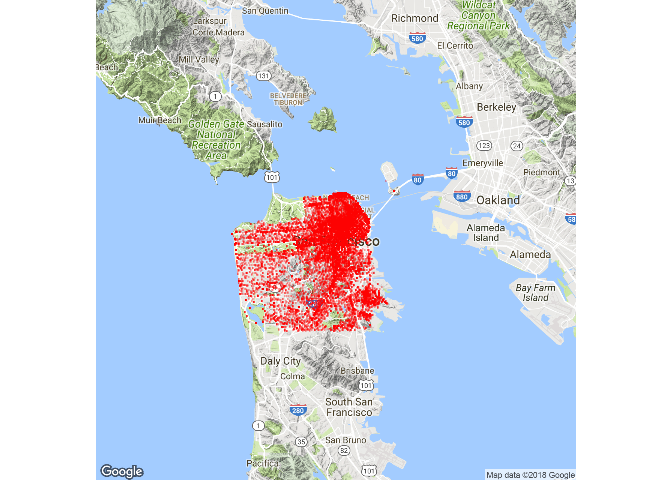
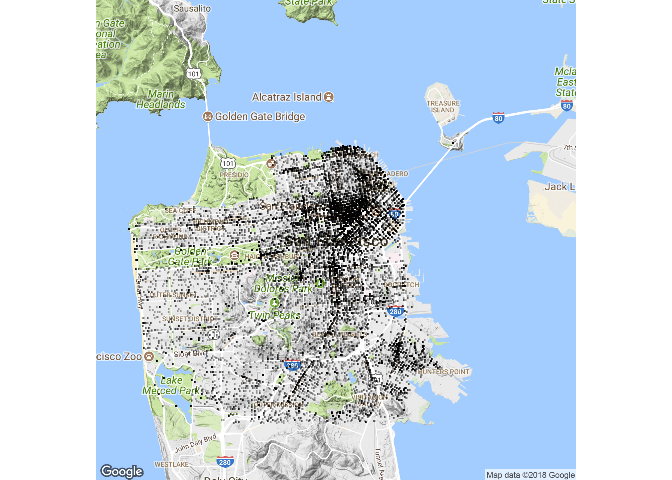
added plots and intro

diff --git a/Crime-Analytics-Data-Viz.md b/Crime-Analytics-Data-Viz.md
@@ -6,99 +6,64 @@ April 16, 2018
 Crime Analytics
 ---------------
 
-Intro paragraph which says what my primary finding is and describes two or three supporting visualisations.
+Is day of the week when a crime occurs associated with city (San Francisco/ Seattle)? Is hour of the day when a crime occurs associated with city (San Francisco/ Seattle)?
 
 ``` r
 SeattleData <- as_tibble(read.csv("seattle_incidents_summer_2014.csv"))
 SanFranciscoData <- as_tibble(read.csv("sanfrancisco_incidents_summer_2014.csv"))
 
-SeattleData
-```
-
-    ## # A tibble: 32,779 x 19
-    ##    RMS.CDW.ID General.Offense.~ Offense.Code Offense.Code.Ex~ Offense.Type
-    ##         <int>             <dbl> <fct>                   <int> <fct>       
-    ##  1     483839       2015218538. 2202                        0 BURGLARY-FO~
-    ##  2     481252       2015213067. 2610                        0 FRAUD-IDENT~
-    ##  3     481375       2015210301. 2316                        0 THEFT-MAIL  
-    ##  4     481690       2015209327. 2599                        0 COUNTERFEIT 
-    ##  5     478198       2015207880. 2399                        3 THEFT-OTH   
-    ##  6     480485       2015904103. 2308                        0 THEFT-BUILD~
-    ##  7     470170       2015185464. 2308                        0 THEFT-BUILD~
-    ##  8     465137       2015174988. 2605                        0 FRAUD-CREDI~
-    ##  9     461710       2015168191. 2610                        0 FRAUD-IDENT~
-    ## 10     456091       2015157266. 2606                        1 FRAUD-CHECK 
-    ## # ... with 32,769 more rows, and 14 more variables:
-    ## #   Summary.Offense.Code <fct>, Summarized.Offense.Description <fct>,
-    ## #   Date.Reported <fct>, Occurred.Date.or.Date.Range.Start <fct>,
-    ## #   Occurred.Date.Range.End <fct>, Hundred.Block.Location <fct>,
-    ## #   District.Sector <fct>, Zone.Beat <fct>, Census.Tract.2000 <dbl>,
-    ## #   Longitude <dbl>, Latitude <dbl>, Location <fct>, Month <int>,
-    ## #   Year <int>
-
-``` r
-SanFranciscoData
-```
-
-    ## # A tibble: 28,993 x 13
-    ##    IncidntNum Category     Descript       DayOfWeek Date  Time  PdDistrict
-    ##         <int> <fct>        <fct>          <fct>     <fct> <fct> <fct>     
-    ##  1  140734311 ARSON        ARSON OF A VE~ Sunday    08/3~ 23:50 BAYVIEW   
-    ##  2  140736317 NON-CRIMINAL LOST PROPERTY  Sunday    08/3~ 23:45 MISSION   
-    ##  3  146177923 LARCENY/THE~ GRAND THEFT F~ Sunday    08/3~ 23:30 SOUTHERN  
-    ##  4  146177531 LARCENY/THE~ GRAND THEFT F~ Sunday    08/3~ 23:30 RICHMOND  
-    ##  5  140734220 NON-CRIMINAL FOUND PROPERTY Sunday    08/3~ 23:23 RICHMOND  
-    ##  6  140734349 DRUG/NARCOT~ POSSESSION OF~ Sunday    08/3~ 23:13 SOUTHERN  
-    ##  7  140734349 DRUG/NARCOT~ POSSESSION OF~ Sunday    08/3~ 23:13 SOUTHERN  
-    ##  8  140734349 DRIVING UND~ DRIVING WHILE~ Sunday    08/3~ 23:13 SOUTHERN  
-    ##  9  140738147 OTHER OFFEN~ EVADING A POL~ Sunday    08/3~ 23:00 INGLESIDE 
-    ## 10  140734258 TRESPASS     TRESPASSING    Sunday    08/3~ 23:00 CENTRAL   
-    ## # ... with 28,983 more rows, and 6 more variables: Resolution <fct>,
-    ## #   Address <fct>, X <dbl>, Y <dbl>, Location <fct>, PdId <dbl>
-
-``` r
-# data checks
-# table(wday(mdy(SanFranciscoData$Date), label=TRUE), SanFranciscoData$DayOfWeek)
-# table(month(mdy_hms(SeattleData$Occurred.Date.or.Date.Range.Start)),SeattleData$Month)
-
-City <- rep(c("Seattle","San Francisco"),c(dim(SeattleData)[1], dim(SanFranciscoData)[1]))                
+City <- rep(c("Seattle","San Francisco"),c(dim(SeattleData)[1], dim(SanFranciscoData)[1]))      
 Date <- date(mdy_hms(SeattleData$Occurred.Date.or.Date.Range.Start))
 Date <- append(Date, mdy(SanFranciscoData$Date))
-
 Month <- SeattleData$Month
 Month <- append(Month, month(mdy(SanFranciscoData$Date)))
 
-DayOfWeek <- wday(mdy_hms(SeattleData$Occurred.Date.or.Date.Range.Start), label=TRUE, abbr = FALSE)
-DayOfWeek <- append(DayOfWeek, SanFranciscoData$DayOfWeek)
+SanFranciscoData$DayOfWeek = factor(SanFranciscoData$DayOfWeek, levels=c("Sunday","Monday","Tuesday","Wednesday","Thursday","Friday","Saturday"),ordered=TRUE)
+DayOfWeek<-unlist(list(wday(mdy_hms(SeattleData$Occurred.Date.or.Date.Range.Start), label=TRUE, abbr = FALSE), SanFranciscoData$DayOfWeek))
 
 Hour <- hour(mdy_hms(SeattleData$Occurred.Date.or.Date.Range.Start))
 Hour <- append(Hour, as.numeric(substr(SanFranciscoData$Time,start=1, stop=2)))
-
 CrimeTibble <- tibble(City = City, Date = Date, Month = Month, DayOfWeek = DayOfWeek, Hour = Hour)
+CrimeTibble <- unite(CrimeTibble, Date_Hour, Date, Hour, sep = " ", remove = FALSE)
 
-CrimeTibble
+expecteds<-chisq.test(table(CrimeTibble$DayOfWeek, CrimeTibble$City))$expected
+
+plot(table(CrimeTibble$DayOfWeek, CrimeTibble$City)[,1], ylim=c(3900,5000), type="b", ylab="# of crimes committed", xlab="Day")
+points(table(CrimeTibble$DayOfWeek, CrimeTibble$City)[,2],col=3, type="b")
+points(expecteds[,1], lty=2, type="b")
+points(expecteds[,2], lty=2, type="b", col=3)
+legend(2,5000,c("San Francisco - observed", "San Francisco - expected", "Seattle - observed", "Seattle - expected"), col=c(1,1,3,3), lty=c(1,2,1,2))
 ```
 
-    ## # A tibble: 61,772 x 5
-    ##    City    Date       Month DayOfWeek  Hour
-    ##    <chr>   <date>     <dbl>     <int> <dbl>
-    ##  1 Seattle 2014-06-28    6.         7   10.
-    ##  2 Seattle 2014-06-01    6.         1    0.
-    ##  3 Seattle 2014-08-31    8.         1    9.
-    ##  4 Seattle 2014-06-20    6.         6   13.
-    ##  5 Seattle 2014-06-01    6.         1   11.
-    ##  6 Seattle 2014-06-19    6.         5   14.
-    ##  7 Seattle 2014-06-01    6.         1    0.
-    ##  8 Seattle 2014-08-22    8.         6   11.
-    ##  9 Seattle 2014-08-01    8.         6    0.
-    ## 10 Seattle 2014-07-20    7.         1   12.
-    ## # ... with 61,762 more rows
+![](Crime-Analytics-Data-Viz_files/figure-markdown_github/rearrange-1.png)
 
 ``` r
-mapSF <- qmap("san francisco", zoom=11)
+expecteds<-chisq.test(table(CrimeTibble$Hour, CrimeTibble$City))$expected
+
+plot(table(CrimeTibble$Hour, CrimeTibble$City)[,1], ylim=c(200,2100), type="b", main="Midnight to midnight", xlab="Hour", ylab="# of crimes committed in the hour")
+points(table(CrimeTibble$Hour, CrimeTibble$City)[,2],col=3, type="b")
+points(expecteds[,1], lty=2, type="b")
+points(expecteds[,2], lty=2, type="b", col=3)
+legend(10,1000,c("San Francisco - observed", "San Francisco - expected", "Seattle - observed", "Seattle - expected"), col=c(1,1,3,3), lty=c(1,2,1,2))
 ```
 
-    ## Map from URL : http://maps.googleapis.com/maps/api/staticmap?center=san+francisco&zoom=11&size=640x640&scale=2&maptype=terrain&language=en-EN&sensor=false
+![](Crime-Analytics-Data-Viz_files/figure-markdown_github/rearrange-2.png)
+
+``` r
+plot(table(CrimeTibble$Hour, CrimeTibble$City)[c(5:24,1:4),1], ylim=c(200,2100), type="b", main="4am to 4am", xlab="Hour", ylab="# of crimes committed in the hour")
+points(table(CrimeTibble$Hour, CrimeTibble$City)[c(5:24,1:4),2],col=3, type="b")
+points(expecteds[c(5:24,1:4),1], lty=2, type="b")
+points(expecteds[c(5:24,1:4),2], lty=2, type="b", col=3)
+legend(12,1000,c("San Francisco - observed", "San Francisco - expected", "Seattle - observed", "Seattle - expected"), col=c(1,1,3,3), lty=c(1,2,1,2))
+```
+
+![](Crime-Analytics-Data-Viz_files/figure-markdown_github/rearrange-3.png)
+
+``` r
+mapSF <- qmap("san francisco", zoom=12)
+```
+
+    ## Map from URL : http://maps.googleapis.com/maps/api/staticmap?center=san+francisco&zoom=12&size=640x640&scale=2&maptype=terrain&language=en-EN&sensor=false
 
     ## Information from URL : http://maps.googleapis.com/maps/api/geocode/json?address=san%20francisco&sensor=false
 
@@ -106,7 +71,7 @@ mapSF <- qmap("san francisco", zoom=11)
     ## instead
 
 ``` r
-mapSF + geom_point(data = SanFranciscoData, aes(x = SanFranciscoData$X, y = SanFranciscoData$Y), color="red", size=.5, alpha=0.2)
+mapSF + geom_point(data = SanFranciscoData, aes(x = SanFranciscoData$X, y = SanFranciscoData$Y), color="black", size=.2, alpha=0.2)
 ```
 
 ![](Crime-Analytics-Data-Viz_files/figure-markdown_github/SanFranciscoMap-1.png)
@@ -123,93 +88,9 @@ mapS <- qmap("seattle", zoom=11)
     ## instead
 
 ``` r
-mapS + geom_point(data = SeattleData, aes(x=SeattleData$Longitude, y=SeattleData$Latitude), color="red", size=.5, alpha=.2)
+mapS + geom_point(data = SeattleData, aes(x=SeattleData$Longitude, y=SeattleData$Latitude), color="black", size=.2, alpha=.2)
 ```
 
     ## Warning: Removed 2050 rows containing missing values (geom_point).
 
 ![](Crime-Analytics-Data-Viz_files/figure-markdown_github/SeattleMap-1.png)
-
-``` r
-plot(SanFranciscoData$X,SanFranciscoData$Y)
-```
-
-![](Crime-Analytics-Data-Viz_files/figure-markdown_github/other%20stuff-1.png)
-
-``` r
-plot(SeattleData$Longitude[SeattleData$Longitude < 0],SeattleData$Latitude[SeattleData$Latitude > 0])
-```
-
-![](Crime-Analytics-Data-Viz_files/figure-markdown_github/other%20stuff-2.png)
-
-``` r
-table(weekdays(mdy_hms(SeattleData$Occurred.Date.or.Date.Range.Start)))
-```
-
-    ## 
-    ##    Friday    Monday  Saturday    Sunday  Thursday   Tuesday Wednesday 
-    ##      4960      4587      4647      4715      4596      4612      4662
-
-``` r
-table(weekdays(mdy(SanFranciscoData$Date)))
-```
-
-    ## 
-    ##    Friday    Monday  Saturday    Sunday  Thursday   Tuesday Wednesday 
-    ##      4451      4005      4319      4218      3968      3930      4102
-
-``` r
-plot(sort(mdy_hms(SeattleData$Date.Reported)-mdy_hms(SeattleData$Occurred.Date.or.Date.Range.Start)))
-```
-
-![](Crime-Analytics-Data-Viz_files/figure-markdown_github/other%20stuff-3.png)
-
-``` r
-table(hour(mdy_hms(SeattleData$Occurred.Date.or.Date.Range.Start)))
-```
-
-    ## 
-    ##    0    1    2    3    4    5    6    7    8    9   10   11   12   13   14 
-    ## 2073  989  827  589  475  393  550  811 1130 1155 1286 1281 2020 1589 1481 
-    ##   15   16   17   18   19   20   21   22   23 
-    ## 1697 1669 1844 1838 1738 1866 1942 1931 1605
-
-``` r
-#table(hour(mdy_hms(SeattleData$Occurred.Date.or.Date.Range.Start)), weekdays(mdy_hms(SeattleData$Occurred.Date.or.Date.Range.Start)))
-
-table(hour(mdy_hms(SeattleData$Occurred.Date.or.Date.Range.Start)), wday(mdy_hms(SeattleData$Occurred.Date.or.Date.Range.Start),label=TRUE, abbr = FALSE))
-```
-
-    ##     
-    ##      Sunday Monday Tuesday Wednesday Thursday Friday Saturday
-    ##   0     368    259     304       258      259    323      302
-    ##   1     175    130      98       114      124    121      227
-    ##   2     205    107     101        86       87     91      150
-    ##   3     119     55      67        84       60     59      145
-    ##   4      82     48      80        62       64     53       86
-    ##   5      52     34      51        80       55     62       59
-    ##   6      58     99      97       107       58     82       49
-    ##   7      70    122     142       130      143    137       67
-    ##   8      91    223     156       176      174    159      151
-    ##   9     154    183     179       171      146    180      142
-    ##   10    133    180     222       207      164    193      187
-    ##   11    167    222     172       195      181    176      168
-    ##   12    275    287     241       274      335    340      268
-    ##   13    215    193     227       247      239    244      224
-    ##   14    212    216     199       209      219    253      173
-    ##   15    249    253     250       207      254    269      215
-    ##   16    254    229     273       238      228    227      220
-    ##   17    250    288     259       288      263    290      206
-    ##   18    242    256     264       276      251    277      272
-    ##   19    249    233     272       230      259    254      241
-    ##   20    283    237     256       287      265    296      242
-    ##   21    306    312     273       277      256    245      273
-    ##   22    266    219     281       283      286    318      278
-    ##   23    240    202     148       176      226    311      302
-
-Including Plots
----------------
-
-You can also embed plots, for example:
-
-Note that the `echo = FALSE` parameter was added to the code chunk to prevent printing of the R code that generated the plot.
